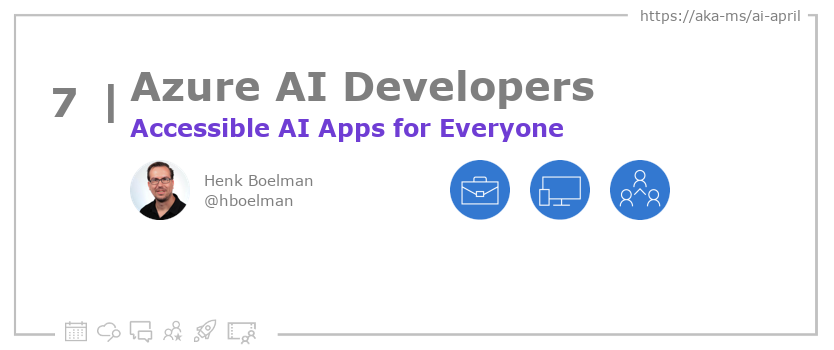
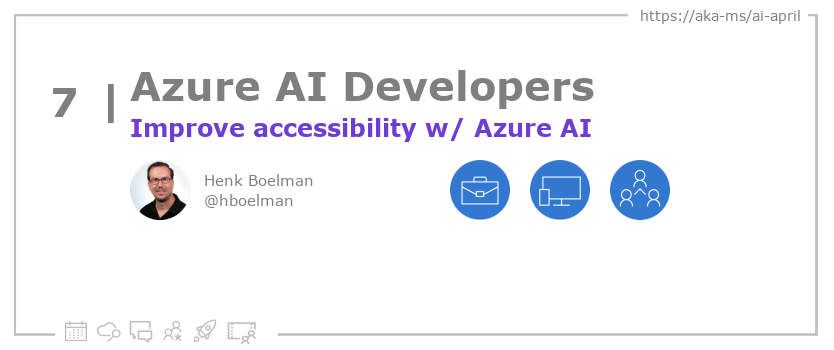
docs

Changed region(s): [[0.1559, 0.3143, 0.717, 0.4]]

diff --git a/website/blog/2023-aia/2023-04-08-ai-accessibility/index.md b/website/blog/2023-aia/2023-04-08-ai-accessibility/index.md
@@ -1,6 +1,6 @@
 ---
 slug: 2023-day7
-title: "7. 🏁Accessible AI Apps for Everyone"
+title: "7. 🏁Improve accessibility w/ Azure AI"
 authors: ['Henk']
 draft: false
 hide_table_of_contents: false
@@ -10,14 +10,14 @@ keywords: ['Accessibility-Employment', 'Accessibility-Modern-Life', 'Accessibili
 tags: ['ai-april', '30-days-of-azure-ai', 'ml-developers', 'app-developers', 'ai-for-accessibility']
 
 image: "https://azureaidevs.github.io/hub/img/2023/banner-day7.png"
-description: "Learn to build AI for everyone with AI for Accessibility https://azureaidevs.github.io/hub/blog/2023-day7 #30DaysOfAzureAI #AzureAiDevs #AI #Accessibility"
+description: "Learn about the 6 ways to improve accessibility with Azure AI https://azureaidevs.github.io/hub/blog/2023-day7 #30DaysOfAzureAI #AzureAiDevs #AI #Accessibility"
 ---
 
 <head>
 
   <meta property="og:url" content="https://azureaidevs.github.io/hub/blog/2023-day7" />
-  <meta property="og:title" content="Accessible AI Apps for Everyone" />
-  <meta property="og:description" content="Learn to build AI for everyone with AI for Accessibility https://azureaidevs.github.io/hub/blog/2023-day7 #30DaysOfAzureAI #AzureAiDevs #AI #Accessibility" />
+  <meta property="og:title" content="Improve accessibility w/ Azure AI" />
+  <meta property="og:description" content="Learn about the 6 ways to improve accessibility with Azure AI https://azureaidevs.github.io/hub/blog/2023-day7 #30DaysOfAzureAI #AzureAiDevs #AI #Accessibility" />
   <meta property="og:image" content="https://azureaidevs.github.io/hub/img/2023/banner-day7.png" />
   <meta property="og:type" content="article" />
   <meta property="og:site_name" content="Azure AI Developer" />
@@ -29,7 +29,7 @@ description: "Learn to build AI for everyone with AI for Accessibility https://a
 
 - 📧 [Sign up for the Azure AI Developer Newsletter](https://aka.ms/azure-ai-dev-newsletter)
 - 📰 [Subscribe to the #30DaysOfAzureAI RSS feed](https://azureaidevs.github.io/hub/blog/rss.xml)
-- 📌 [Ask a question about this post on GitHub Discussions](https://github.com/AzureAiDevs/hub/discussions/categories/7-accessible-ai-apps-for-everyone)
+- 📌 [Ask a question about this post on GitHub Discussions](https://github.com/AzureAiDevs/hub/discussions/categories/7-improve-accessibility-w/-azure-ai)
 - 💡 [Suggest a topic for a future post](https://github.com/AzureAiDevs/hub/discussions/categories/call-for-content)
 
 ## 🗓 Day _7_ of #30DaysOfAzureAI
@@ -39,13 +39,13 @@ The following description is also used for the tweet. So it should be action ori
 If you update the description, please update the description: in the frontmatter as well.
 -->
 
-**Learn to build AI for everyone with AI for Accessibility**
+**Learn about the 6 ways to improve accessibility with Azure AI**
 
 <!-- README
 The following is the intro to the post. It should be a short teaser for the post.
 -->
 
-Yesterday we talked about the importance of Responsible AI. Today is about 6 ways to improve accessibility with Azure AI. There are over one billion people in the world living with disabilities.
+Yesterday we talked about the importance of Responsible AI. Today is about 6 ways to improve accessibility with Azure AI for the billion people living with disabilities.
 
 ## 🎯 What we'll cover
 
@@ -99,4 +99,4 @@ Today's [article](https://azure.microsoft.com/blog/6-ways-to-improve-accessibili
 
 ## 🙋🏾♂ Questions?
 
-[Remember, you can ask a question about this post on GitHub Discussions](https://github.com/AzureAiDevs/Discussions/discussions/categories/7-accessible-ai-apps-for-everyone)
+[Remember, you can ask a question about this post on GitHub Discussions](https://github.com/AzureAiDevs/Discussions/discussions/categories/7-improve-accessibility-w/-azure-ai)
